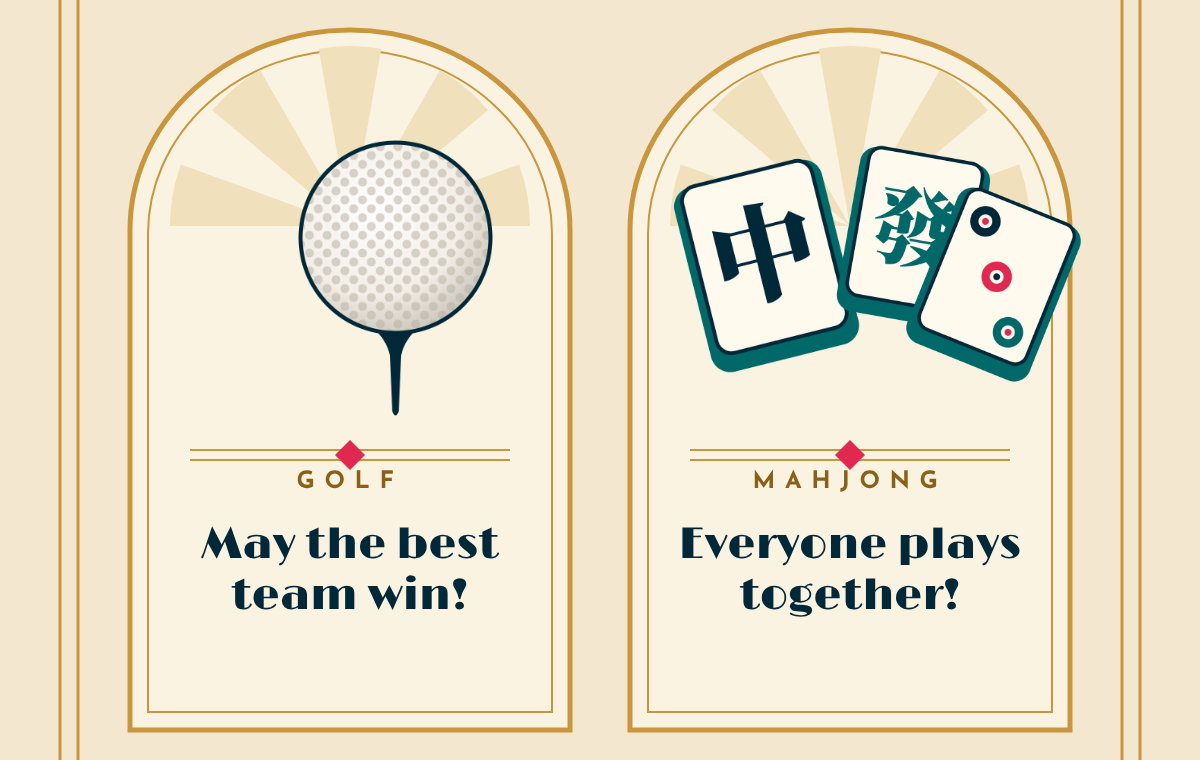
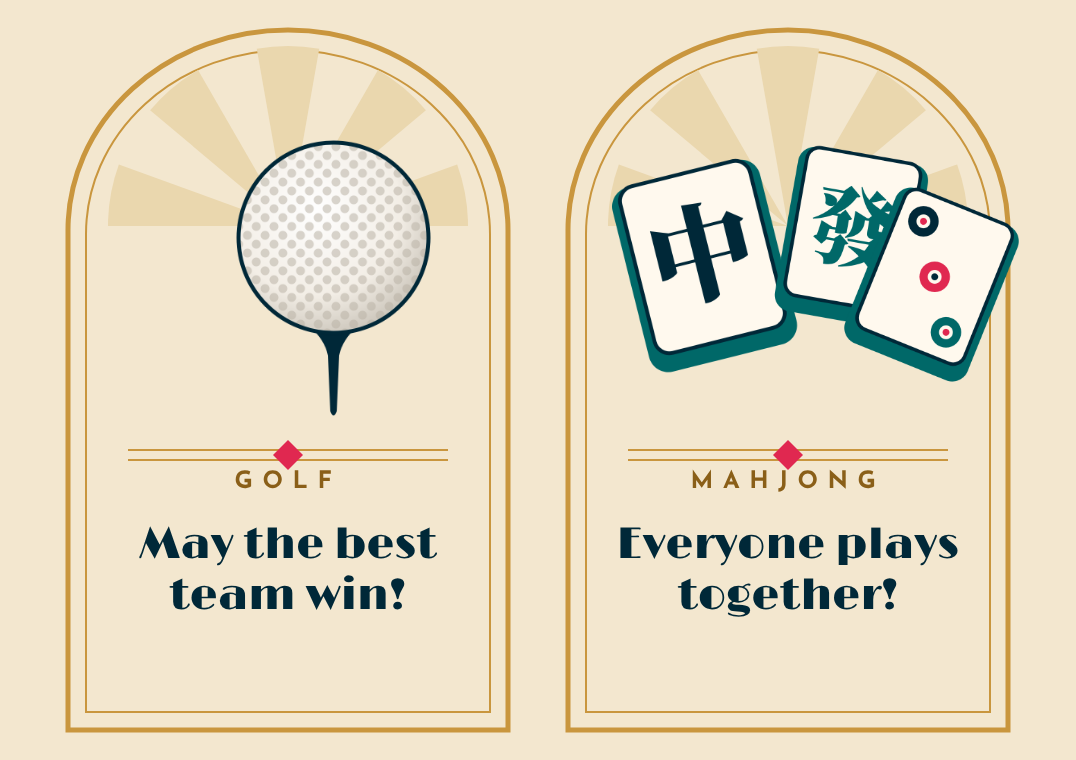
Art Deco v2 exploration: one continuous HTML frame, unified beige, closed arch, no button
Claude-Session: https://claude.ai/code/session_014Yf17Fk2qdVoQEw95c3A5W

diff --git a/explorations/email-art-deco-beige-v2/src/parts.html b/explorations/email-art-deco-beige-v2/src/parts.html
@@ -6,11 +6,11 @@
 <!-- palette: navy #002838 teal #006868 ocean #009098 red #E02850 gold #F0B870 pink #F89090 cream #F3E7CF tan #E6CFA0 goldline #C9963E -->
 
 <!-- 1. TOP: color band + arch hero -->
-<div class="part" id="top" style="height:1270px">
-<svg width="1200" height="1270" viewBox="0 0 1200 1270" class="abs" style="inset:0">
+<div class="part" id="top" style="height:1300px">
+<svg width="1200" height="1300" viewBox="0 0 1200 1300" class="abs" style="inset:0">
   <defs>
     <clipPath id="cb"><rect x="0" y="0" width="460" height="190"/></clipPath>
-    <clipPath id="arch"><path d="M230 1500 V720 A370 370 0 0 1 970 720 V1500 Z"/></clipPath>
+    <clipPath id="arch"><path d="M230 1250 V720 A370 370 0 0 1 970 720 V1250 Z"/></clipPath>
   </defs>
   <!-- color block band -->
   <rect x="0" y="0" width="460" height="190" fill="#002838"/>
@@ -21,19 +21,14 @@
   <rect x="1040" y="0" width="160" height="190" fill="#F89090"/>
   <g id="sc1" fill="#009098"></g>
   <path d="M0 198 H1200 M0 207 H1200" stroke="#C9963E" stroke-width="3"/>
-  <!-- side stepped pilasters -->
-  <g fill="none" stroke="#C9963E" stroke-width="3">
-    <path d="M60 260 V1540 M78 260 V1540 M1140 260 V1540 M1122 260 V1540"/>
-    <path d="M60 260 H140 V300 H180 V340 M1140 260 H1060 V300 H1020 V340"/>
-  </g>
   <!-- arch with tan sunburst -->
-  <g clip-path="url(#arch)"><rect x="230" y="300" width="740" height="1200" fill="#EFDDB8"/><g transform="translate(600 1120)" id="r2"></g></g>
-  <path d="M230 1500 V720 A370 370 0 0 1 970 720 V1500" fill="none" stroke="#C9963E" stroke-width="6"/>
-  <path d="M256 1500 V720 A344 344 0 0 1 944 720 V1500" fill="none" stroke="#C9963E" stroke-width="2"/>
+  <g clip-path="url(#arch)"><rect x="230" y="300" width="740" height="1200" fill="#F3E7CF"/><g transform="translate(600 1120)" id="r2"></g></g>
+  <path d="M230 1262 V720 A370 370 0 0 1 970 720 V1262" fill="none" stroke="#C9963E" stroke-width="6"/>
+  <path d="M256 1250 V720 A344 344 0 0 1 944 720 V1250" fill="none" stroke="#C9963E" stroke-width="2"/>
   <!-- stepped shoulders -->
   <g fill="none" stroke="#C9963E" stroke-width="3">
-    <path d="M230 900 H170 V1000 H120 V1500 M970 900 H1030 V1000 H1080 V1500"/>
-    <path d="M230 940 H190 V1040 H140 V1500 M970 940 H1010 V1040 H1060 V1500"/>
+    <path d="M230 900 H170 V1000 H120 V1262 H1080 V1000 H1030 V900 H970"/>
+    <path d="M230 940 H190 V1040 H140 V1250 H1060 V1040 H1010 V940 H970"/>
   </g>
   <!-- keystone -->
   <path d="M570 338 H630 L615 368 H585 Z" fill="#E02850"/>
@@ -47,19 +42,19 @@
 <div class="abs c caps" style="top:436px;color:#8A5F18;font-size:23px;letter-spacing:.28em">Save the Date</div>
 <img class="abs" src="golf-games-classic-logo.png" style="top:480px;left:250px;width:700px">
 <div class="abs c" style="top:1032px;font-family:Limelight,serif;font-size:84px;line-height:1;color:#F0C078">March 12, 2027</div>
-<div class="abs c caps" style="top:1208px;color:#006868;font-size:24px;letter-spacing:.4em">Miami Beach Golf Club</div>
+<div class="abs c caps" style="top:1186px;color:#006868;font-size:24px;letter-spacing:.4em">Miami Beach Golf Club</div>
 </div>
 
 <!-- 2. FAN DIVIDER -->
 <div class="part" id="fan" style="height:110px">
-<svg width="1200" height="110"><g fill="none" stroke="#C9963E" stroke-width="3"><path d="M60 0 V110 M78 0 V110 M1140 0 V110 M1122 0 V110"/><path d="M160 60 H500 M160 70 H500 M700 60 H1040 M700 70 H1040"/></g>
+<svg width="1200" height="110"><g fill="none" stroke="#C9963E" stroke-width="3"><path d="M160 60 H500 M160 70 H500 M700 60 H1040 M700 70 H1040"/></g>
 <g transform="translate(600 92)" id="r3"></g><path d="M585 92 L600 77 L615 92 Z" fill="#E02850"/>
 <path d="M510 65 L522 53 L534 65 L522 77 Z M666 65 L678 53 L690 65 L678 77 Z" fill="#006868"/></svg>
 </div>
 
 <!-- 3. MATCHUP PLAQUE -->
 <div class="part" id="plaque" style="height:150px">
-<svg width="1200" height="150" class="abs" style="inset:0"><g fill="none" stroke="#C9963E" stroke-width="3"><path d="M60 0 V150 M78 0 V150 M1140 0 V150 M1122 0 V150"/></g>
+<svg width="1200" height="150" class="abs" style="inset:0">
 <path d="M210 75 L270 20 H930 L990 75 L930 130 H270 Z" fill="#006868" stroke="#C9963E" stroke-width="5"/>
 <path d="M232 75 L278 32 H922 L968 75 L922 118 H278 Z" fill="none" stroke="#F0C078" stroke-width="2"/></svg>
 <div class="abs c caps" style="top:56px;color:#F3E7CF;font-size:30px;letter-spacing:.16em">Team MARJCC <span style="font-family:Limelight,serif;letter-spacing:0;color:#F0C078;text-transform:none">vs.</span> Team MBJCC</div>
@@ -68,7 +63,6 @@
 <!-- 4. CARDS -->
 <div class="part" id="cards" style="height:760px">
 <svg width="1200" height="760" class="abs" style="inset:0">
-  <g fill="none" stroke="#C9963E" stroke-width="3"><path d="M60 0 V760 M78 0 V760 M1140 0 V760 M1122 0 V760"/></g>
   <g id="cardL" transform="translate(130 30)"></g><g id="cardR" transform="translate(630 30)"></g>
 </svg>
 <img class="abs" src="ball.png" style="top:120px;left:278px;height:300px">
@@ -84,7 +78,6 @@
 <div class="part" id="closing" style="height:420px">
 <svg width="1200" height="420" class="abs" style="inset:0">
   <defs><clipPath id="half"><path d="M200 420 A400 400 0 0 1 1000 420 Z"/></clipPath></defs>
-  <g fill="none" stroke="#C9963E" stroke-width="3"><path d="M60 0 V420 M78 0 V420 M1140 0 V420 M1122 0 V420"/></g>
   <g clip-path="url(#half)"><rect x="200" y="0" width="800" height="420" fill="#002838"/><g transform="translate(600 420)" id="r4"></g></g>
   <path d="M200 420 A400 400 0 0 1 1000 420" fill="none" stroke="#C9963E" stroke-width="5"/>
   <path d="M226 420 A374 374 0 0 1 974 420" fill="none" stroke="#C9963E" stroke-width="2"/>
@@ -98,12 +91,12 @@
 <script>
 function rays(id,n,r,spread,cols){const g=document.getElementById(id);let s='';for(let i=0;i<n;i++){const a0=-90-spread/2+i*spread/n,a1=a0+spread/n;const p=a=>[Math.cos(a*Math.PI/180)*r,Math.sin(a*Math.PI/180)*r];const[a,b]=p(a0),[c,d]=p(a1);s+=`<path d="M0 0 L${a} ${b} A${r} ${r} 0 0 1 ${c} ${d} Z" fill="${cols[i%cols.length]}"/>`;}g.innerHTML=s;}
 rays('r1',14,600,180,['#F3E7CF','#002838']);
-rays('r2',20,1000,180,['#E6CFA0','#EFDDB8']);
+rays('r2',20,1000,180,['#EAD7AE','#F3E7CF']);
 rays('r3',7,48,180,['#C9963E','#F3E7CF']);
 rays('r4',16,600,180,['#0A3346','#002838']);
 let sc='';for(let x=750;x<1240;x+=40){sc+=`<path d="M${x} 190 a20 20 0 0 1 40 0 z"/>`;}document.getElementById('sc1').innerHTML=sc;
 // arch cards
-function card(id){document.getElementById(id).innerHTML=`<path d="M0 700 V200 A220 200 0 0 1 440 200 V700 Z" fill="#FBF3E2" stroke="#C9963E" stroke-width="5"/><path d="M18 682 V204 A202 184 0 0 1 422 204 V682 Z" fill="none" stroke="#C9963E" stroke-width="2"/><path d="M60 420 H380 M60 430 H380" stroke="#C9963E" stroke-width="2"/><path d="M205 425 L220 410 L235 425 L220 440 Z" fill="#E02850"/><g transform="translate(220 196)">${[...Array(9)].map((_,i)=>{const a0=(-180+i*20)*Math.PI/180,a1=(-180+i*20+20)*Math.PI/180;return i%2?'':`<path d="M0 0 L${Math.cos(a0)*180} ${Math.sin(a0)*180} A180 180 0 0 1 ${Math.cos(a1)*180} ${Math.sin(a1)*180} Z" fill="#F0E0BC"/>`}).join('')}</g>`;}
+function card(id){document.getElementById(id).innerHTML=`<path d="M0 700 V200 A220 200 0 0 1 440 200 V700 Z" fill="#F3E7CF" stroke="#C9963E" stroke-width="5"/><path d="M18 682 V204 A202 184 0 0 1 422 204 V682 Z" fill="none" stroke="#C9963E" stroke-width="2"/><path d="M60 420 H380 M60 430 H380" stroke="#C9963E" stroke-width="2"/><path d="M205 425 L220 410 L235 425 L220 440 Z" fill="#E02850"/><g transform="translate(220 196)">${[...Array(9)].map((_,i)=>{const a0=(-180+i*20)*Math.PI/180,a1=(-180+i*20+20)*Math.PI/180;return i%2?'':`<path d="M0 0 L${Math.cos(a0)*180} ${Math.sin(a0)*180} A180 180 0 0 1 ${Math.cos(a1)*180} ${Math.sin(a1)*180} Z" fill="#EAD7AE"/>`}).join('')}</g>`;}
 card('cardL');card('cardR');
 const c=document.getElementById('wc').getContext('2d');c.fillStyle='#F3E7CF';c.fillRect(0,0,1200,170);
 const R=40;[[80,'#009098'],[110,'#006868'],[140,'#009098'],[170,'#006868']].forEach(([y,col],ri)=>{const off=(ri%2)*R;for(let x=-R+off;x<1200+R;x+=2*R){c.beginPath();c.arc(x,y,R,Math.PI,0);c.closePath();c.fillStyle=col;c.fill();c.lineWidth=2;c.strokeStyle='#C9963E';c.stroke();}});

diff --git a/explorations/email-art-deco-beige-v2/index.html b/explorations/email-art-deco-beige-v2/index.html
@@ -2,20 +2,27 @@
 <html lang="en"><head><meta charset="utf-8"><meta name="viewport" content="width=device-width,initial-scale=1">
 <meta name="color-scheme" content="light only"><title>Save the Date: Golf &amp; Games Classic</title>
 <link rel="stylesheet" href="https://fonts.googleapis.com/css2?family=Limelight&family=Josefin+Sans:wght@600;700&display=swap">
-<style>@media (max-width:620px){.wrap{width:100%!important}.h1{font-size:30px!important}}</style></head>
+<style>@media (max-width:620px){.wrap{width:100%!important}.h1{font-size:28px!important}.side{padding:0 10px!important}}</style></head>
 <body style="margin:0;padding:0;background:#E9DCC0">
 <div style="display:none;max-height:0;overflow:hidden">Friday, March 12, 2027 at the Miami Beach Golf Club. Two JCCs. One tournament. One friendly rivalry!</div>
 <table role="presentation" width="100%" cellpadding="0" cellspacing="0" style="background:#E9DCC0"><tr><td align="center" style="padding:24px 8px">
 <table role="presentation" class="wrap" width="600" cellpadding="0" cellspacing="0" style="width:600px;background:#F3E7CF">
-  <tr><td><img src="images/top.png" width="600" height="635" alt="MARJCC and MBJCC present the Golf &amp; Games Classic. Save the date: March 12, 2027, Miami Beach Golf Club" style="display:block;width:100%;height:auto;border:0"></td></tr>
-  <tr><td style="padding:0 29px"><table role="presentation" width="100%" cellpadding="0" cellspacing="0"><tr><td align="center" style="border-left:7px double #C9963E;border-right:7px double #C9963E;padding:26px 30px 6px"><div class="h1" style="font-family:Limelight,Georgia,serif;font-size:36px;line-height:1.2;color:#006868">Two JCCs.<br>One Tournament.</div><div class="h1" style="font-family:Limelight,Georgia,serif;font-size:36px;line-height:1.2;color:#002838">One Friendly Rivalry!</div></td></tr></table></td></tr>
-  <tr><td><img src="images/fan.png" width="600" height="55" alt="" style="display:block;width:100%;height:auto;border:0"></td></tr>
-  <tr><td><img src="images/plaque.png" width="600" height="75" alt="Team MARJCC vs. Team MBJCC" style="display:block;width:100%;height:auto;border:0"></td></tr>
-  <tr><td style="padding:0 29px"><table role="presentation" width="100%" cellpadding="0" cellspacing="0"><tr><td align="center" style="border-left:7px double #C9963E;border-right:7px double #C9963E;padding:10px 40px 18px"><div style="font-family:Arial,Helvetica,sans-serif;font-size:16px;line-height:1.65;color:#3C5560">This spring, MARJCC and MBJCC go head-to-head at the <b style="color:#002838">Golf &amp; Games Classic</b>. Grab your clubs or your mahjong tiles and pick your team.</div></td></tr></table></td></tr>
-  <tr><td><img src="images/cards.png" width="600" height="380" alt="Golf: May the best team win! Mahjong: Everyone plays together!" style="display:block;width:100%;height:auto;border:0"></td></tr>
-  <tr><td style="padding:0 29px"><table role="presentation" width="100%" cellpadding="0" cellspacing="0"><tr><td align="center" style="border-left:7px double #C9963E;border-right:7px double #C9963E;padding:18px 20px 26px"><table role="presentation" cellpadding="0" cellspacing="0"><tr><td style="font-family:Arial,sans-serif;font-size:20px;color:#C9963E;padding-right:12px">&#9670;</td><td style="border:3px double #C9963E;padding:4px"><a href="https://REPLACE-WITH-LANDING-PAGE-URL" style="display:block;background:#E02850;padding:16px 36px;font-family:'Josefin Sans',Arial,sans-serif;font-weight:700;font-size:16px;letter-spacing:4px;color:#FFFFFF;text-decoration:none">SAVE THE DATE</a></td><td style="font-family:Arial,sans-serif;font-size:20px;color:#C9963E;padding-left:12px">&#9670;</td></tr></table><div style="font-family:Arial,Helvetica,sans-serif;font-size:14px;color:#3C5560;padding-top:12px">More details coming soon!</div></td></tr></table></td></tr>
-  <tr><td><img src="images/closing.png" width="600" height="210" alt="Two communities. One unforgettable day!" style="display:block;width:100%;height:auto;border:0"></td></tr>
-  <tr><td><img src="images/waves.png" width="600" height="85" alt="" style="display:block;width:100%;height:auto;border:0"></td></tr>
-  <tr><td align="center" style="padding:22px 40px 6px;font-family:Arial,Helvetica,sans-serif;font-size:12px;line-height:1.6;color:#3C5560">Golf &amp; Games Classic &middot; Miami Beach Golf Club &middot; Friday, March 12, 2027<br>[SENDER NAME AND MAILING ADDRESS]<br><a href="{{{RESEND_UNSUBSCRIBE_URL}}}" style="color:#3C5560">Unsubscribe</a></td></tr>
-  <tr><td align="center" style="padding:14px 0 30px"><img src="images/gmjf-logo-black.png" width="110" alt="Greater Miami Jewish Federation" style="display:block;width:110px;height:auto;border:0"></td></tr>
+<tr><td><img src="images/band.png" width="600" height="107" alt="" style="display:block;width:100%;height:auto;border:0"></td></tr>
+<tr><td class="side" style="padding:0 24px">
+  <table role="presentation" width="100%" cellpadding="0" cellspacing="0" style="background:#F3E7CF"><tr><td style="border-left:7px double #C9963E;border-right:7px double #C9963E">
+    <table role="presentation" width="100%" cellpadding="0" cellspacing="0">
+<tr><td><img src="images/hero.png" width="538" height="543" alt="MARJCC and MBJCC present the Golf &amp; Games Classic. Save the date: March 12, 2027, Miami Beach Golf Club" style="display:block;width:100%;height:auto;border:0"></td></tr>
+<tr><td align="center" style="padding:28px 24px 6px"><div class="h1" style="font-family:Limelight,Georgia,serif;font-size:34px;line-height:1.2;color:#006868">Two JCCs.<br>One Tournament.</div><div class="h1" style="font-family:Limelight,Georgia,serif;font-size:34px;line-height:1.2;color:#002838">One Friendly Rivalry!</div></td></tr>
+<tr><td><img src="images/fan.png" width="538" height="55" alt="" style="display:block;width:100%;height:auto;border:0"></td></tr>
+<tr><td><img src="images/plaque.png" width="538" height="75" alt="Team MARJCC vs. Team MBJCC" style="display:block;width:100%;height:auto;border:0"></td></tr>
+<tr><td align="center" style="padding:12px 34px 18px"><div style="font-family:Arial,Helvetica,sans-serif;font-size:16px;line-height:1.65;color:#3C5560">This spring, MARJCC and MBJCC go head-to-head at the <b style="color:#002838">Golf &amp; Games Classic</b>. Grab your clubs or your mahjong tiles and pick your team.</div></td></tr>
+<tr><td><img src="images/cards.png" width="538" height="380" alt="Golf: May the best team win! Mahjong: Everyone plays together!" style="display:block;width:100%;height:auto;border:0"></td></tr>
+<tr><td align="center" style="padding:14px 24px 26px"><div style="font-family:'Josefin Sans',Arial,sans-serif;font-weight:700;font-size:14px;letter-spacing:4px;color:#8A5F18">MORE DETAILS COMING SOON!</div></td></tr>
+<tr><td><img src="images/closing.png" width="538" height="210" alt="Two communities. One unforgettable day!" style="display:block;width:100%;height:auto;border:0"></td></tr>
+    </table>
+  </td></tr></table>
+</td></tr>
+<tr><td><img src="images/waves.png" width="600" height="85" alt="" style="display:block;width:100%;height:auto;border:0"></td></tr>
+<tr><td align="center" style="padding:22px 40px 6px;font-family:Arial,Helvetica,sans-serif;font-size:12px;line-height:1.6;color:#3C5560">Golf &amp; Games Classic &middot; Miami Beach Golf Club &middot; Friday, March 12, 2027<br>[SENDER NAME AND MAILING ADDRESS]<br><a href="{{{RESEND_UNSUBSCRIBE_URL}}}" style="color:#3C5560">Unsubscribe</a></td></tr>
+<tr><td align="center" style="padding:14px 0 30px"><img src="images/gmjf-logo-black.png" width="110" alt="Greater Miami Jewish Federation" style="display:block;width:110px;height:auto;border:0"></td></tr>
 </table></td></tr></table></body></html>

diff --git a/explorations/email-art-deco-beige-v2/src/render.js b/explorations/email-art-deco-beige-v2/src/render.js
@@ -1,5 +1,12 @@
 const { chromium } = require('playwright');
+// Inner pieces are cropped to x 62..1138 (1076px = 538 at 1x) to sit inside the HTML frame.
 (async()=>{const b=await chromium.launch();const p=await b.newPage({viewport:{width:1200,height:1600}});
 await p.goto('file://'+__dirname+'/parts.html');await p.waitForFunction(()=>window.__ready);await p.waitForTimeout(400);
-for(const id of ['top','fan','plaque','cards','closing','waves']) await p.locator('#'+id).screenshot({path:__dirname+'/../images/'+id+'.png'});
+const box=async id=>p.locator('#'+id).boundingBox();
+const out=n=>__dirname+'/../images/'+n+'.png';
+const t=await box('top');
+await p.screenshot({fullPage:true,path:out('band'),clip:{x:t.x,y:t.y,width:1200,height:214}});
+await p.screenshot({fullPage:true,path:out('hero'),clip:{x:t.x+62,y:t.y+214,width:1076,height:t.height-214}});
+for(const id of ['fan','plaque','cards','closing']){const bb=await box(id);await p.screenshot({fullPage:true,path:out(id),clip:{x:bb.x+62,y:bb.y,width:1076,height:bb.height}});}
+await p.locator('#waves').screenshot({path:out('waves')});
 await b.close();})();

diff --git a/explorations/email-art-deco-beige-v2/README.md b/explorations/email-art-deco-beige-v2/README.md
@@ -3,3 +3,9 @@
 Más Art Deco integrado en todo el email: arco con rayos, placa escalonada para la fecha, placa del matchup, tarjetas en arco para Golf y Mahjong, sol de rayos al cierre, marco doble dorado continuo. Solo exploración; no forma parte del branding aprobado ni se envía.
 
 `node src/render.js` regenera las imágenes, `node src/preview.js` las vistas previas.
+
+## Notas
+- El marco dorado de los lados es un solo borde HTML (7px double) de arriba a abajo; las imágenes interiores miden 538px y van dentro del marco, así siempre queda alineado.
+- Todo el fondo es el mismo beige (#F3E7CF), incluido el interior del arco y de las tarjetas.
+- Sin botón por ahora (no hay link todavía).
+- Para el futuro: el botón en celular debe ir con `white-space:nowrap`, menos espaciado entre letras (2px) y padding menor, para que no se parta ni se vea raro.
